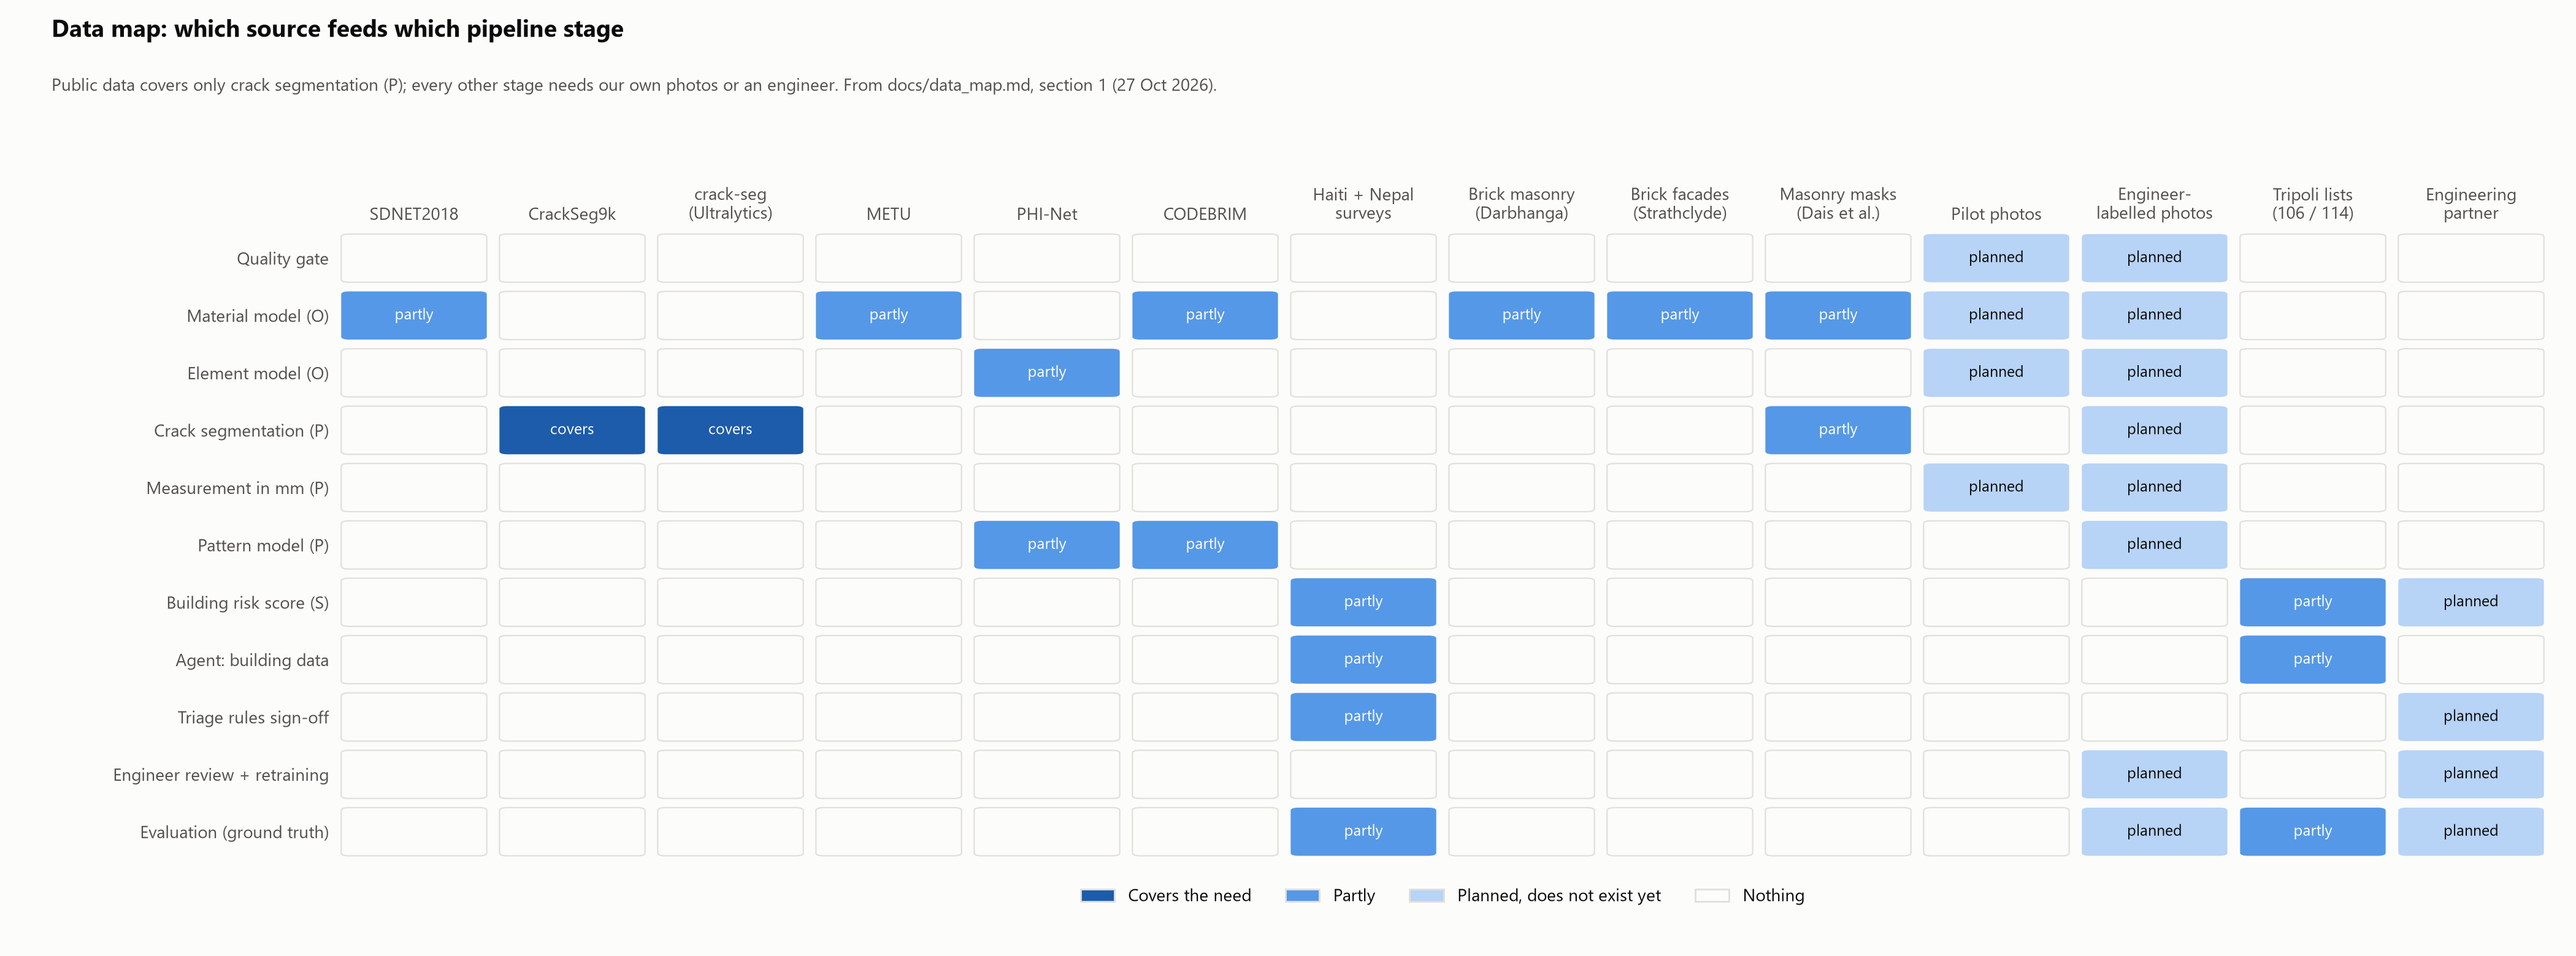
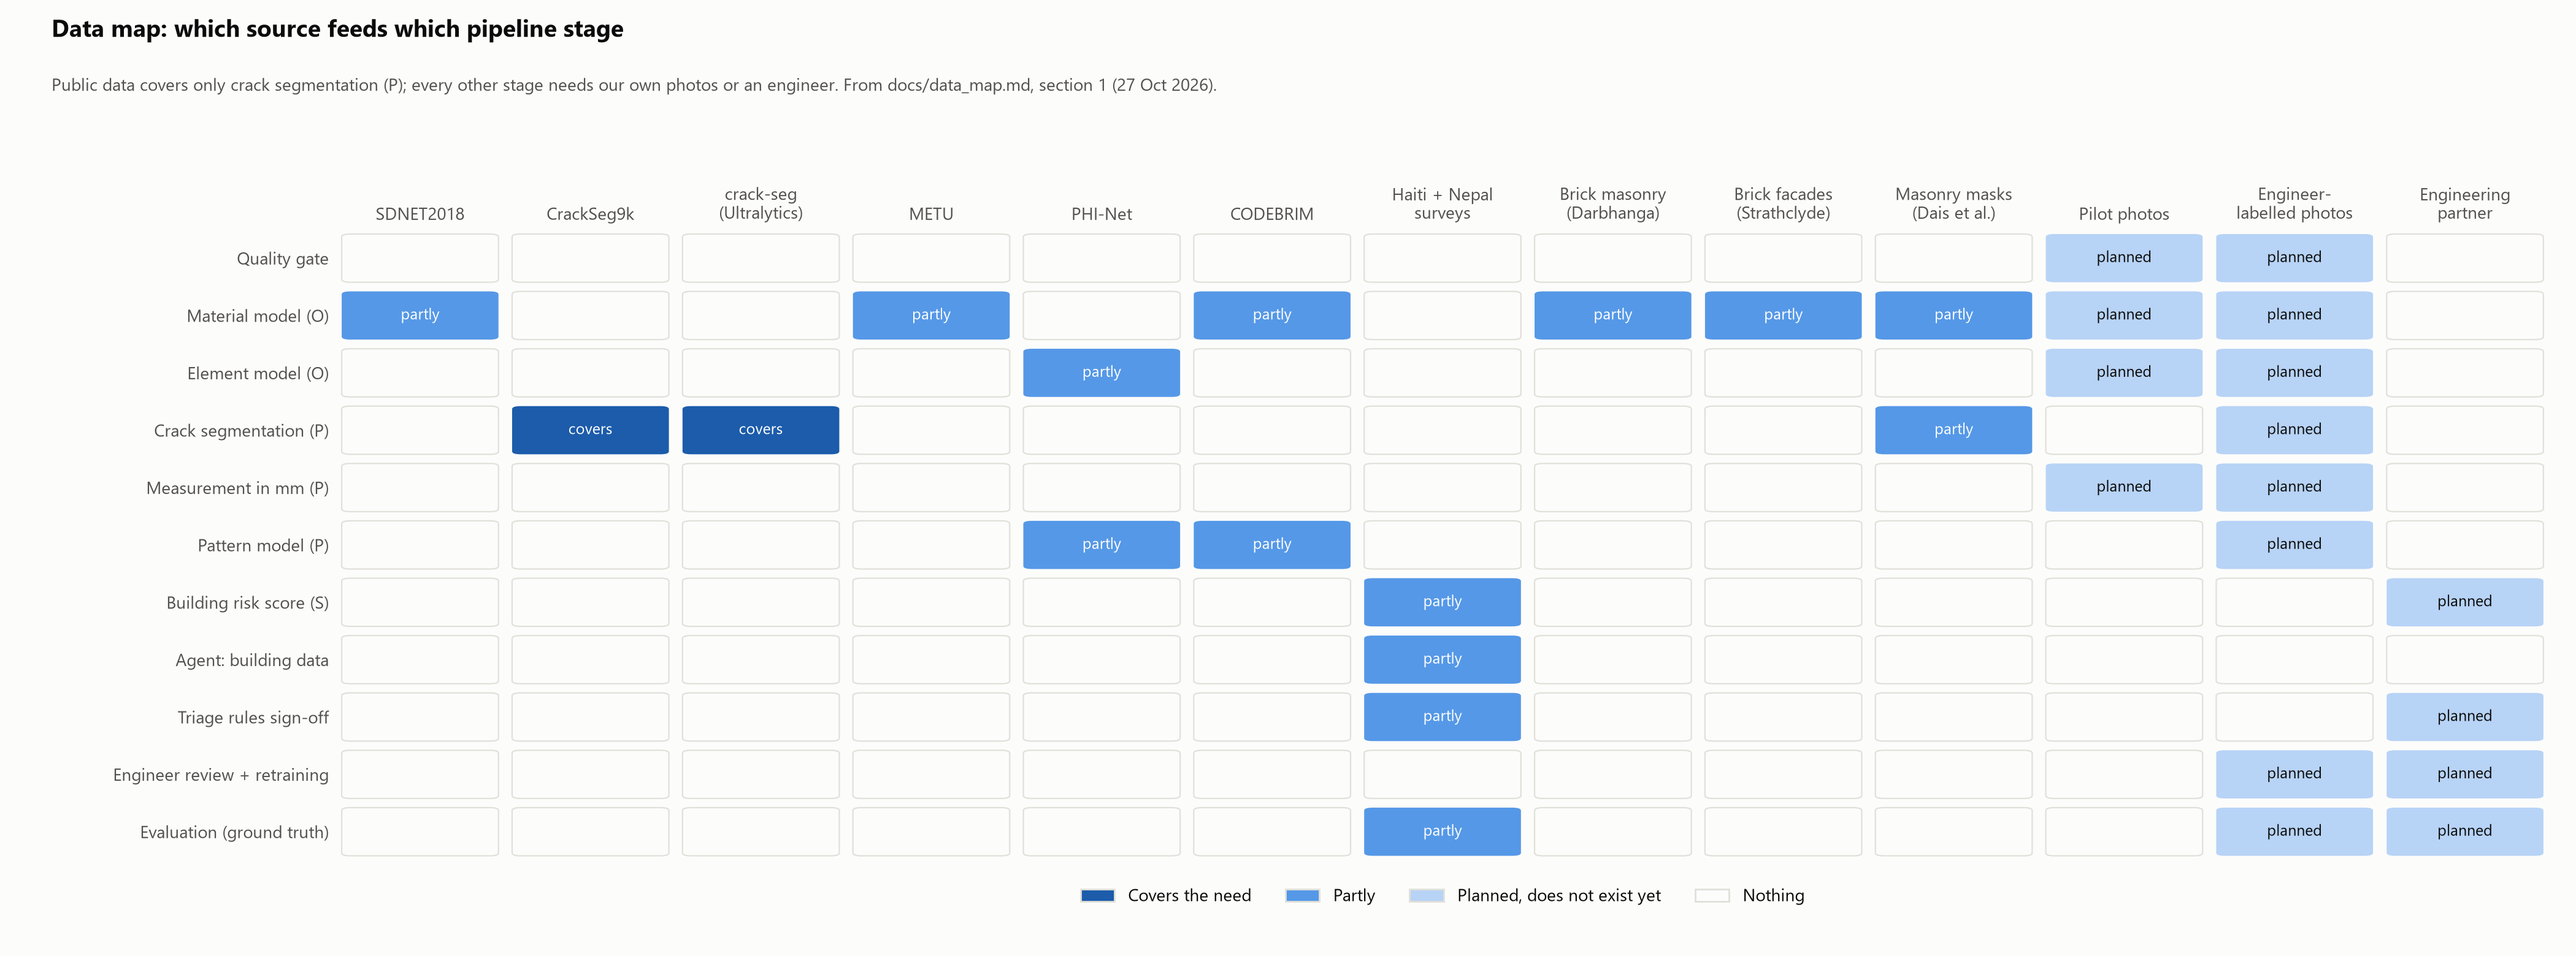
Remove Tripoli from the data map: no validation site yet (D26)

diff --git a/src/viz/figures.py b/src/viz/figures.py
@@ -442,20 +442,20 @@ STAGES = ["Quality gate", "Material model (O)", "Element model (O)", "Crack segm
           "Engineer review + retraining", "Evaluation (ground truth)"]
 SOURCES = ["SDNET2018", "CrackSeg9k", "crack-seg\n(Ultralytics)", "METU", "PHI-Net", "CODEBRIM", "Haiti + Nepal\nsurveys",
            "Brick masonry\n(Darbhanga)", "Brick facades\n(Strathclyde)", "Masonry masks\n(Dais et al.)", "Pilot photos",
-           "Engineer-\nlabelled photos", "Tripoli lists\n(106 / 114)", "Engineering\npartner"]
+           "Engineer-\nlabelled photos", "Engineering\npartner"]
 # From docs/data_map.md, section 1. Rows follow STAGES, columns follow SOURCES.
 COVERAGE = [
-    ["none", "none", "none", "none", "none", "none", "none", "none", "none", "none", "planned", "planned", "none", "none"],
-    ["partial", "none", "none", "partial", "none", "partial", "none", "partial", "partial", "partial", "planned", "planned", "none", "none"],
-    ["none", "none", "none", "none", "partial", "none", "none", "none", "none", "none", "planned", "planned", "none", "none"],
-    ["none", "covered", "covered", "none", "none", "none", "none", "none", "none", "partial", "none", "planned", "none", "none"],
-    ["none", "none", "none", "none", "none", "none", "none", "none", "none", "none", "planned", "planned", "none", "none"],
-    ["none", "none", "none", "none", "partial", "partial", "none", "none", "none", "none", "none", "planned", "none", "none"],
-    ["none", "none", "none", "none", "none", "none", "partial", "none", "none", "none", "none", "none", "partial", "planned"],
-    ["none", "none", "none", "none", "none", "none", "partial", "none", "none", "none", "none", "none", "partial", "none"],
-    ["none", "none", "none", "none", "none", "none", "partial", "none", "none", "none", "none", "none", "none", "planned"],
-    ["none", "none", "none", "none", "none", "none", "none", "none", "none", "none", "none", "planned", "none", "planned"],
-    ["none", "none", "none", "none", "none", "none", "partial", "none", "none", "none", "none", "planned", "partial", "planned"],
+    ["none", "none", "none", "none", "none", "none", "none", "none", "none", "none", "planned", "planned", "none"],
+    ["partial", "none", "none", "partial", "none", "partial", "none", "partial", "partial", "partial", "planned", "planned", "none"],
+    ["none", "none", "none", "none", "partial", "none", "none", "none", "none", "none", "planned", "planned", "none"],
+    ["none", "covered", "covered", "none", "none", "none", "none", "none", "none", "partial", "none", "planned", "none"],
+    ["none", "none", "none", "none", "none", "none", "none", "none", "none", "none", "planned", "planned", "none"],
+    ["none", "none", "none", "none", "partial", "partial", "none", "none", "none", "none", "none", "planned", "none"],
+    ["none", "none", "none", "none", "none", "none", "partial", "none", "none", "none", "none", "none", "planned"],
+    ["none", "none", "none", "none", "none", "none", "partial", "none", "none", "none", "none", "none", "none"],
+    ["none", "none", "none", "none", "none", "none", "partial", "none", "none", "none", "none", "none", "planned"],
+    ["none", "none", "none", "none", "none", "none", "none", "none", "none", "none", "none", "planned", "planned"],
+    ["none", "none", "none", "none", "none", "none", "partial", "none", "none", "none", "none", "planned", "planned"],
 ]
 COVERAGE_LABEL = {"covered": "covers", "partial": "partly", "planned": "planned", "none": ""}
 

diff --git a/docs/data_map.md b/docs/data_map.md
@@ -105,10 +105,10 @@ Raw data is never committed; it lives in `data/` (git-ignored).
 
 ### Building data and ground-truth candidates
 
+No validation site is chosen: the architecture is general. Places named in the problem statement (for example Tripoli) are motivating examples only, not data or validation sites (`spec/decisions.md` D26).
+
 | Data | Source | Availability | Access | Format | Size | Licence | Covers | Gaps |
 |---|---|---|---|---|---|---|---|---|
-| List of 106 at-risk buildings, Tripoli | MTV Lebanon, 25 Jan 2026 [8] | Reported in the press; list itself not found | No access route identified | Unknown | 106 buildings | Unknown | Buildings engineers already judged at risk: candidate ground truth and photo sites | Access, content and format unknown |
-| Municipal evacuation list, Tripoli | Government announcement, 9 Feb 2026 [3][5] | Reported; list not found | Ask the municipality (assumption) | Unknown | 114 buildings | Unknown | Same as above | Same as above; overlap with the 106 list unknown [6] |
 | BUET factory survey, Dhaka | Reported by AFP, The Daily Star [16][17] | Reported; raw survey not found | Ask BUET (assumption) | Unknown | Unknown | Unknown | Engineer assessments of factory buildings | Frames, Phase 3; old (2013) |
 | Building database for the agent (construction type, footprint) | Not chosen | - | Over MCP (planned) | To define | - | - | Context for the agent | Source, schema and access all open |
 

diff --git a/spec/decisions.md b/spec/decisions.md
@@ -107,3 +107,6 @@ A printed scale card replaces the coin (the coin stays as a backup). A photo mus
 
 ## D25 (2026-10-27): residents are never asked the material, the element or the pattern
 Residents cannot tell concrete from other materials, or a column from a wall (team, 27 Oct). Models identify the material, the element and the crack pattern from the photos, each with a confidence; when unsure, the case goes to an engineer. Residents answer only what they can know (building history, sticking doors, whether the crack is new). Confirmations by field workers and engineers become labels. Three models this semester: material, element (pre-trained on PHI-Net task 6) and crack segmentation.
+
+## D26 (2026-10-27): no validation site yet; Tripoli is a motivating example only
+The architecture is general. Tripoli was an example in the problem statement; we will not validate there now (possibly later, once the tool works). The Tripoli building lists are removed from the data map and the coverage figure. Cited examples in the problem statement and the segmentation tree stay as evidence of the problem, not as data.
